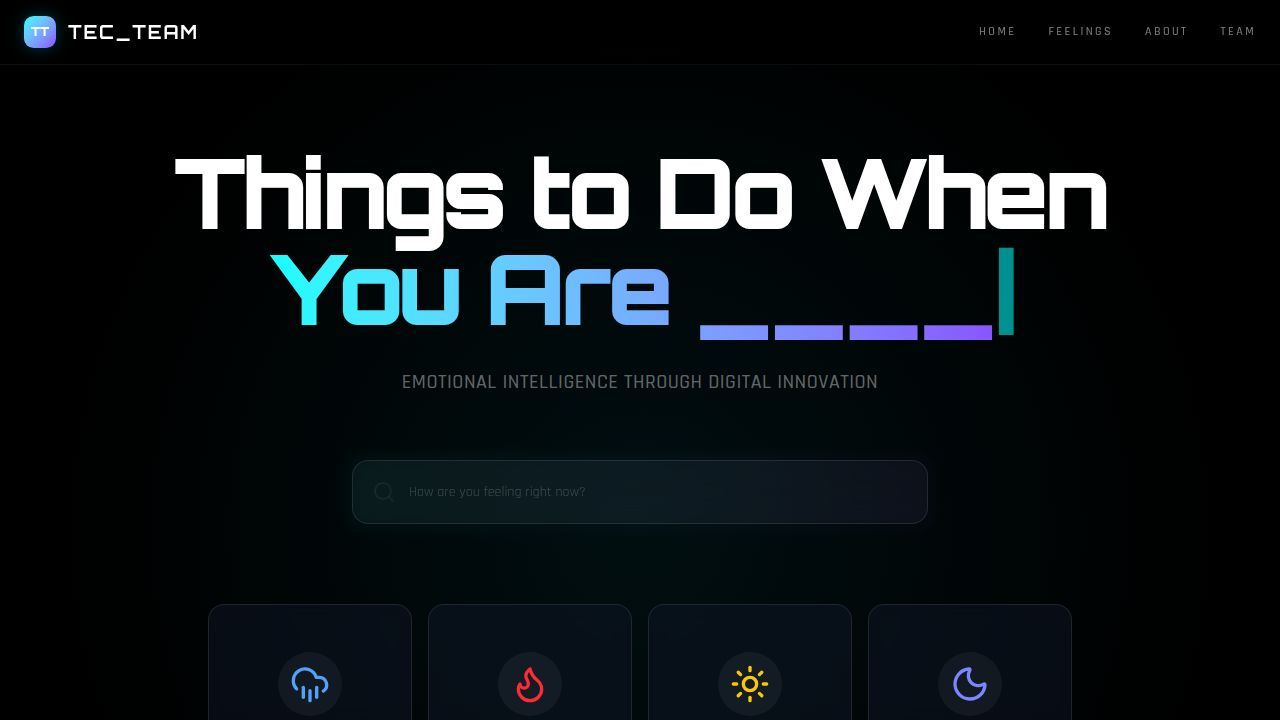
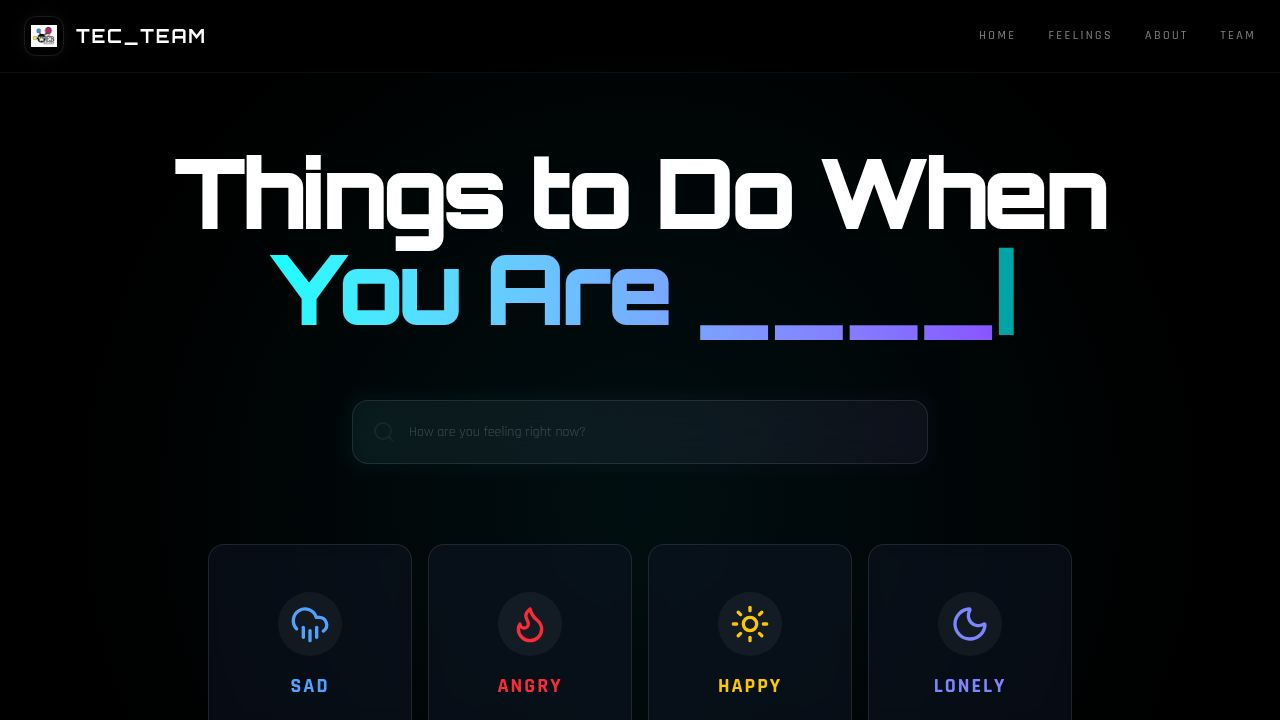
Update team member images and remove social media links
Replaces placeholder images with actual photos for team members and removes extraneous social media icons from the UI.

Replit-Commit-Author: Agent
Replit-Commit-Session-Id: 68c38b04-5ae6-48bb-b688-c67f97a7c4d6
Replit-Commit-Checkpoint-Type: full_checkpoint
Replit-Commit-Event-Id: 75646d52-d7c9-46dd-993a-5edd38b04eab
Replit-Commit-Screenshot-Url: https://storage.googleapis.com/screenshot-production-us-central1/e2de5056-0528-4a4e-916c-4ca1dc3b4e22/68c38b04-5ae6-48bb-b688-c67f97a7c4d6/xdra5Yv
Replit-Helium-Checkpoint-Created: true

diff --git a/client/src/pages/home.tsx b/client/src/pages/home.tsx
@@ -3,7 +3,7 @@ import { motion, AnimatePresence } from "framer-motion";
 import { MoodSelector } from "@/components/MoodSelector";
 import { MoodDisplay } from "@/components/MoodDisplay";
 import { moods, teamMembers } from "@/lib/data";
-import { Search, Instagram, Facebook, Linkedin, Target, Eye, Mail, Twitter } from "lucide-react";
+import { Search, Instagram, Facebook, Linkedin } from "lucide-react";
 import { Input } from "@/components/ui/input";
 
 export default function Home() {
@@ -62,8 +62,8 @@ export default function Home() {
       {/* Navbar */}
       <nav className="fixed top-0 w-full z-50 bg-black/60 backdrop-blur-xl border-b border-white/5 py-4 px-6 flex justify-between items-center transition-all">
         <div className="flex items-center gap-3 cursor-pointer group" onClick={() => scrollToSection('home')}>
-          <div className="w-8 h-8 rounded-lg bg-gradient-to-br from-primary to-secondary flex items-center justify-center p-1.5 shadow-[0_0_15px_rgba(6,182,212,0.3)] group-hover:shadow-[0_0_20px_rgba(6,182,212,0.5)] transition-all">
-             <span className="text-white font-display font-black text-xs">TT</span>
+          <div className="w-10 h-10 rounded-xl bg-black border border-white/10 flex items-center justify-center p-1.5 shadow-[0_0_15px_rgba(255,255,255,0.05)] group-hover:border-primary/50 transition-all overflow-hidden">
+             <img src="/static/Screenshot_from_2026-02-20_11-08-34_1771565031561.png" alt="Logo" className="w-full h-full object-contain" />
           </div>
           <span className="font-display font-bold text-lg tracking-widest text-white group-hover:text-primary transition-colors">TEC_TEAM</span>
         </div>
@@ -106,9 +106,6 @@ export default function Home() {
                     You Are {typedText}<span className="text-primary animate-pulse">|</span>
                   </span>
                 </motion.h1>
-                <p className="text-white/40 text-lg md:text-xl font-medium tracking-wide max-w-2xl mx-auto uppercase">
-                  EMOTIONAL INTELLIGENCE THROUGH DIGITAL INNOVATION
-                </p>
               </div>
 
               <div className="relative w-full max-w-xl group">
@@ -140,62 +137,44 @@ export default function Home() {
 
       {/* About Section */}
       <section id="about" className="py-32 px-6 relative z-10 bg-black">
-        <div className="max-w-7xl mx-auto grid grid-cols-1 lg:grid-cols-2 gap-20 items-center">
-          <motion.div 
-            initial={{ opacity: 0, x: -30 }}
-            whileInView={{ opacity: 1, x: 0 }}
-            viewport={{ once: true }}
-            className="space-y-10"
-          >
-            <div className="inline-block px-4 py-1.5 rounded-full border border-primary/20 bg-primary/5 text-primary text-xs font-bold tracking-[0.3em] uppercase">
-              Our Legacy
-            </div>
-            <h2 className="text-4xl md:text-6xl font-display font-black text-white leading-tight">THE ART OF <br/><span className="text-primary">WELLNESS.</span></h2>
+        <div className="max-w-7xl mx-auto flex flex-col items-center text-center space-y-16">
+          <div className="space-y-6 max-w-4xl">
+            <h2 className="text-4xl md:text-6xl font-display font-black text-white leading-tight uppercase tracking-tighter">ABOUT <span className="text-primary">TEC_TEAM</span></h2>
             <p className="text-xl text-white/50 leading-relaxed font-medium">
-              TEC_TEAM represents a paradigm shift in emotional support. We architect digital sanctuaries where data meets empathy, providing a modern response to the complexities of human emotion.
+              TEC_TEAM is a creative tech collective dedicated to the intersection of digital innovation and emotional wellness. 
+              The goal is to combine technology and emotional wellness through music and positive support.
             </p>
-            <div className="grid grid-cols-1 sm:grid-cols-2 gap-8">
-              <div className="space-y-4 p-8 rounded-3xl bg-white/[0.02] border border-white/5 hover:border-primary/20 transition-all group">
-                <div className="w-12 h-12 rounded-2xl bg-primary/10 flex items-center justify-center group-hover:scale-110 transition-transform">
-                   <Target className="h-6 w-6 text-primary" />
-                </div>
-                <h4 className="text-lg font-bold text-white uppercase tracking-wider">The Mission</h4>
-                <p className="text-sm text-white/40 leading-relaxed">Pioneering instant, AI-aware emotional interventions through high-fidelity digital art and curated experiences.</p>
+          </div>
+          
+          <div className="grid grid-cols-1 md:grid-cols-2 gap-12 w-full max-w-5xl">
+            <div className="p-10 rounded-[2.5rem] bg-white/[0.02] border border-white/5 hover:border-primary/20 transition-all group text-left flex flex-col gap-6">
+              <div className="w-14 h-14 rounded-2xl bg-primary/10 flex items-center justify-center group-hover:scale-110 transition-transform">
+                <Target className="h-7 w-7 text-primary" />
               </div>
-              <div className="space-y-4 p-8 rounded-3xl bg-white/[0.02] border border-white/5 hover:border-secondary/20 transition-all group">
-                <div className="w-12 h-12 rounded-2xl bg-secondary/10 flex items-center justify-center group-hover:scale-110 transition-transform">
-                   <Eye className="h-6 w-6 text-secondary" />
-                </div>
-                <h4 className="text-lg font-bold text-white uppercase tracking-wider">The Vision</h4>
-                <p className="text-sm text-white/40 leading-relaxed">Setting the global standard for mental wellness integration in everyday technology interfaces.</p>
+              <h4 className="text-2xl font-black text-white uppercase tracking-tight">Mission</h4>
+              <p className="text-white/40 leading-relaxed text-lg">To provide instant emotional support through curated digital experiences and positive interventions.</p>
+            </div>
+            
+            <div className="p-10 rounded-[2.5rem] bg-white/[0.02] border border-white/5 hover:border-secondary/20 transition-all group text-left flex flex-col gap-6">
+              <div className="w-14 h-14 rounded-2xl bg-secondary/10 flex items-center justify-center group-hover:scale-110 transition-transform">
+                <Eye className="h-7 w-7 text-secondary" />
               </div>
+              <h4 className="text-2xl font-black text-white uppercase tracking-tight">Vision</h4>
+              <p className="text-white/40 leading-relaxed text-lg">Building a future where digital platforms prioritize mental health and human-centric design.</p>
             </div>
-          </motion.div>
-          <motion.div 
-            initial={{ opacity: 0, scale: 0.9 }}
-            whileInView={{ opacity: 1, scale: 1 }}
-            viewport={{ once: true }}
-            className="relative aspect-square rounded-[3rem] bg-gradient-to-br from-primary/5 to-secondary/5 border border-white/5 flex items-center justify-center p-12 overflow-hidden group"
-          >
-            <div className="absolute inset-0 bg-[radial-gradient(circle_at_50%_50%,rgba(6,182,212,0.1),transparent_70%)] group-hover:scale-150 transition-transform duration-1000" />
-            <div className="relative w-64 h-64 bg-black rounded-3xl border border-white/10 shadow-[0_0_50px_rgba(0,0,0,0.5)] flex items-center justify-center">
-               <img src="/logo.png" alt="Logo" className="w-40 h-40 object-contain drop-shadow-[0_0_30px_rgba(6,182,212,0.6)] animate-pulse" />
-            </div>
-          </motion.div>
+          </div>
         </div>
       </section>
 
       {/* Team Section */}
       <section id="team" className="py-32 px-6 relative z-10 bg-black">
-        <div className="max-w-7xl mx-auto space-y-20">
+        <div className="max-w-7xl mx-auto space-y-24">
           <div className="text-center space-y-6">
-            <div className="inline-block px-4 py-1.5 rounded-full border border-secondary/20 bg-secondary/5 text-secondary text-xs font-bold tracking-[0.3em] uppercase">
-              Architects
-            </div>
-            <h2 className="text-4xl md:text-7xl font-display font-black text-white">TEC_TEAM <span className="text-secondary">ELITE</span></h2>
-            <p className="text-white/40 max-w-2xl mx-auto text-lg font-medium">The visionaries behind the next generation of emotional technology.</p>
+            <h2 className="text-5xl md:text-8xl font-display font-black text-white tracking-tighter uppercase">OUR TEAM</h2>
+            <p className="text-white/40 max-w-2xl mx-auto text-xl font-medium tracking-wide">THE CREATIVE MINDS BEHIND TEC_TEAM.</p>
           </div>
-          <div className="grid grid-cols-1 sm:grid-cols-2 lg:grid-cols-5 gap-10">
+          
+          <div className="grid grid-cols-1 sm:grid-cols-2 lg:grid-cols-5 gap-8">
             {teamMembers.map((member, idx) => (
               <motion.div 
                 key={member.name}
@@ -205,29 +184,27 @@ export default function Home() {
                 viewport={{ once: true }}
                 className="group relative"
               >
-                <div className="absolute -inset-0.5 bg-gradient-to-b from-transparent to-white/10 rounded-3xl opacity-0 group-hover:opacity-100 transition duration-500" />
-                <div className="relative p-8 rounded-3xl bg-white/[0.03] border border-white/5 hover:border-white/20 transition-all h-full flex flex-col items-center text-center">
-                  <div className="w-24 h-24 mb-6 relative">
-                    <div className="absolute inset-0 rounded-full bg-gradient-to-tr from-primary to-secondary animate-spin-slow opacity-20 group-hover:opacity-50" />
-                    <img src={member.image} alt={member.name} className="relative w-full h-full rounded-full bg-black p-1 object-cover grayscale group-hover:grayscale-0 transition-all duration-500" />
+                <div className="relative p-6 rounded-3xl bg-white/[0.03] border border-white/5 hover:border-white/20 transition-all h-full flex flex-col items-center text-center">
+                  <div className="w-28 h-28 mb-8 relative">
+                    <img src={member.image} alt={member.name} className="w-full h-full rounded-2xl bg-black object-cover grayscale group-hover:grayscale-0 transition-all duration-700 shadow-2xl" />
                   </div>
-                  <h3 className="text-xl font-black text-white mb-2 leading-tight">{member.name}</h3>
-                  <div className="text-primary text-[10px] font-black uppercase tracking-[0.2em] mb-4 bg-primary/10 px-3 py-1 rounded-full">{member.role}</div>
-                  <p className="text-sm text-white/40 leading-relaxed font-medium mb-8 line-clamp-4">{member.description}</p>
+                  <h3 className="text-lg font-black text-white mb-2 leading-tight uppercase tracking-tight">{member.name}</h3>
+                  <div className="text-primary text-[9px] font-black uppercase tracking-[0.3em] mb-4 opacity-70">{member.role}</div>
+                  <p className="text-xs text-white/30 leading-relaxed font-medium mb-8 line-clamp-4 h-16">{member.description}</p>
                   
                   <div className="mt-auto flex gap-5">
                     {member.socials.instagram && (
-                      <a href={member.socials.instagram} target="_blank" rel="noreferrer" className="text-white/20 hover:text-primary transition-all scale-100 hover:scale-125">
+                      <a href={member.socials.instagram} target="_blank" rel="noreferrer" className="text-white/20 hover:text-white transition-all transform hover:scale-125">
                         <Instagram className="w-5 h-5" />
                       </a>
                     )}
                     {member.socials.facebook && (
-                      <a href={member.socials.facebook} target="_blank" rel="noreferrer" className="text-white/20 hover:text-primary transition-all scale-100 hover:scale-125">
+                      <a href={member.socials.facebook} target="_blank" rel="noreferrer" className="text-white/20 hover:text-white transition-all transform hover:scale-125">
                         <Facebook className="w-5 h-5" />
                       </a>
                     )}
                     {member.socials.linkedin && (
-                      <a href={member.socials.linkedin} target="_blank" rel="noreferrer" className="text-white/20 hover:text-primary transition-all scale-100 hover:scale-125">
+                      <a href={member.socials.linkedin} target="_blank" rel="noreferrer" className="text-white/20 hover:text-white transition-all transform hover:scale-125">
                         <Linkedin className="w-5 h-5" />
                       </a>
                     )}
@@ -240,43 +217,68 @@ export default function Home() {
       </section>
 
       {/* Footer */}
-      <footer className="relative z-10 py-20 px-6 border-t border-white/5 bg-black">
-        <div className="max-w-7xl mx-auto flex flex-col items-center gap-12">
-          <div className="flex items-center gap-4 group cursor-pointer" onClick={() => scrollToSection('home')}>
-             <div className="w-10 h-10 rounded-xl bg-white/5 flex items-center justify-center p-2 border border-white/10 group-hover:border-primary transition-colors">
-                <span className="text-white font-display font-black text-sm">TT</span>
-             </div>
-             <span className="font-display font-bold text-2xl tracking-[0.2em] text-white">TEC_TEAM</span>
+      <footer className="relative z-10 py-24 px-6 border-t border-white/5 bg-black">
+        <div className="max-w-7xl mx-auto flex flex-col items-center gap-16">
+          <div className="w-24 h-24 bg-black border border-white/10 rounded-2xl flex items-center justify-center p-3 grayscale opacity-40 hover:grayscale-0 hover:opacity-100 transition-all duration-500">
+             <img src="/static/Screenshot_from_2026-02-20_11-08-34_1771565031561.png" alt="Logo" className="w-full h-full object-contain" />
           </div>
           
-          <nav className="flex flex-wrap justify-center gap-x-12 gap-y-6">
-            {['Home', 'Feelings', 'About', 'Team'].map((item) => (
-              <button 
-                key={item} 
-                onClick={() => scrollToSection(item.toLowerCase())}
-                className="text-xs uppercase tracking-widest font-bold text-white/40 hover:text-white transition-colors"
-              >
-                {item}
-              </button>
-            ))}
-          </nav>
-
-          <div className="flex gap-8">
-            <Mail className="w-5 h-5 text-white/20 hover:text-primary transition-colors cursor-pointer" />
-            <Twitter className="w-5 h-5 text-white/20 hover:text-primary transition-colors cursor-pointer" />
-            <Linkedin className="w-5 h-5 text-white/20 hover:text-primary transition-colors cursor-pointer" />
+          <div className="flex flex-col items-center gap-6">
+            <span className="font-display font-black text-3xl tracking-[0.3em] text-white">TEC_TEAM</span>
+            <div className="h-[1px] w-20 bg-primary/30" />
+            <p className="text-[11px] text-white/20 font-black uppercase tracking-[0.5em] max-w-md text-center">
+               COMBINING TECHNOLOGY AND EMOTIONAL WELLNESS
+            </p>
           </div>
 
-          <div className="text-center space-y-2">
-            <p className="text-[10px] text-white/20 font-black uppercase tracking-[0.4em]">
-              ENGINEERED FOR HUMAN EMOTION
-            </p>
-            <p className="text-[10px] text-white/10 font-mono">
-              &copy; {new Date().getFullYear()} TEC_TEAM LABS. ALL RIGHTS RESERVED.
+          <div className="text-center space-y-4 pt-8">
+            <p className="text-[10px] text-white/10 font-mono tracking-widest uppercase">
+              &copy; {new Date().getFullYear()} TEC_TEAM. ALL RIGHTS RESERVED.
             </p>
           </div>
         </div>
       </footer>
     </div>
+  );
+}
+
+function Target(props: any) {
+  return (
+    <svg
+      {...props}
+      xmlns="http://www.w3.org/2000/svg"
+      width="24"
+      height="24"
+      viewBox="0 0 24 24"
+      fill="none"
+      stroke="currentColor"
+      strokeWidth="2"
+      strokeLinecap="round"
+      strokeLinejoin="round"
+    >
+      <circle cx="12" cy="12" r="10" />
+      <circle cx="12" cy="12" r="6" />
+      <circle cx="12" cy="12" r="2" />
+    </svg>
+  );
+}
+
+function Eye(props: any) {
+  return (
+    <svg
+      {...props}
+      xmlns="http://www.w3.org/2000/svg"
+      width="24"
+      height="24"
+      viewBox="0 0 24 24"
+      fill="none"
+      stroke="currentColor"
+      strokeWidth="2"
+      strokeLinecap="round"
+      strokeLinejoin="round"
+    >
+      <path d="M2 12s3-7 10-7 10 7 10 7-3 7-10 7-10-7-10-7Z" />
+      <circle cx="12" cy="12" r="3" />
+    </svg>
   );
 }

diff --git a/client/src/lib/data.ts b/client/src/lib/data.ts
@@ -51,7 +51,7 @@ export const teamMembers: Member[] = [
     name: "Aayush Rajbhandari",
     role: "Frontend Developer",
     description: "Overall development of the platform and frontend architecture.",
-    image: "https://api.dicebear.com/7.x/avataaars/svg?seed=Aayush",
+    image: "/static/Screenshot_from_2026-02-20_10-47-39_1771564766664.png",
     socials: { 
       instagram: "https://www.instagram.com/rajbhandariayush/", 
       linkedin: "https://www.linkedin.com/in/aayush-rajbhandari-2b7521399/" 
@@ -60,8 +60,8 @@ export const teamMembers: Member[] = [
   {
     name: "Aadesh Raj Gurung",
     role: "UI Auditor",
-    description: "Responsible for rating, seeing interfaces, and providing expert tips.",
-    image: "https://api.dicebear.com/7.x/avataaars/svg?seed=Aadesh",
+    description: "Responsible for rating, seeing interfaces, and providing tips.",
+    image: "/static/Screenshot_from_2026-02-20_10-48-07_1771564775279.png",
     socials: { 
       instagram: "https://www.instagram.com/_argrg/" 
     }
@@ -70,7 +70,7 @@ export const teamMembers: Member[] = [
     name: "Prerana Rajbanshi",
     role: "Content Lead",
     description: "Curating content, information, and high-quality prompts.",
-    image: "https://api.dicebear.com/7.x/avataaars/svg?seed=Prerana",
+    image: "/static/Screenshot_from_2026-02-20_10-58-49_1771564784548.png",
     socials: { 
       facebook: "https://www.facebook.com/prerana.rajbanshi" 
     }
@@ -79,7 +79,7 @@ export const teamMembers: Member[] = [
     name: "Anmol Bista",
     role: "Design Modeler",
     description: "Overall rating, modeling, and physical wireframe design.",
-    image: "https://api.dicebear.com/7.x/avataaars/svg?seed=Anmol",
+    image: "/static/Screenshot_from_2026-02-20_10-48-25_1771564794145.png",
     socials: { 
       instagram: "https://www.instagram.com/anmolbista7771/" 
     }
@@ -87,8 +87,8 @@ export const teamMembers: Member[] = [
   {
     name: "Vision Bohara",
     role: "Quality Assurance",
-    description: "Overall rating and project validation expert.",
-    image: "https://api.dicebear.com/7.x/avataaars/svg?seed=Vision",
+    description: "Overall rating and project validation.",
+    image: "/static/Screenshot_from_2026-02-20_10-48-46_1771564805609.png",
     socials: { 
       facebook: "https://www.facebook.com/vision.bohara7" 
     }
@@ -274,7 +274,7 @@ export const moods: MoodData[] = [
       "Action is the foundational key to all success.",
       "Don't wait. The time will never be just right.",
       "Your limitation—it's only your imagination.",
-      "Just do it."
+      "Don't give up."
     ],
     songs: [
       { title: 'Unstoppable', artist: 'Sia', lang: 'English' },
